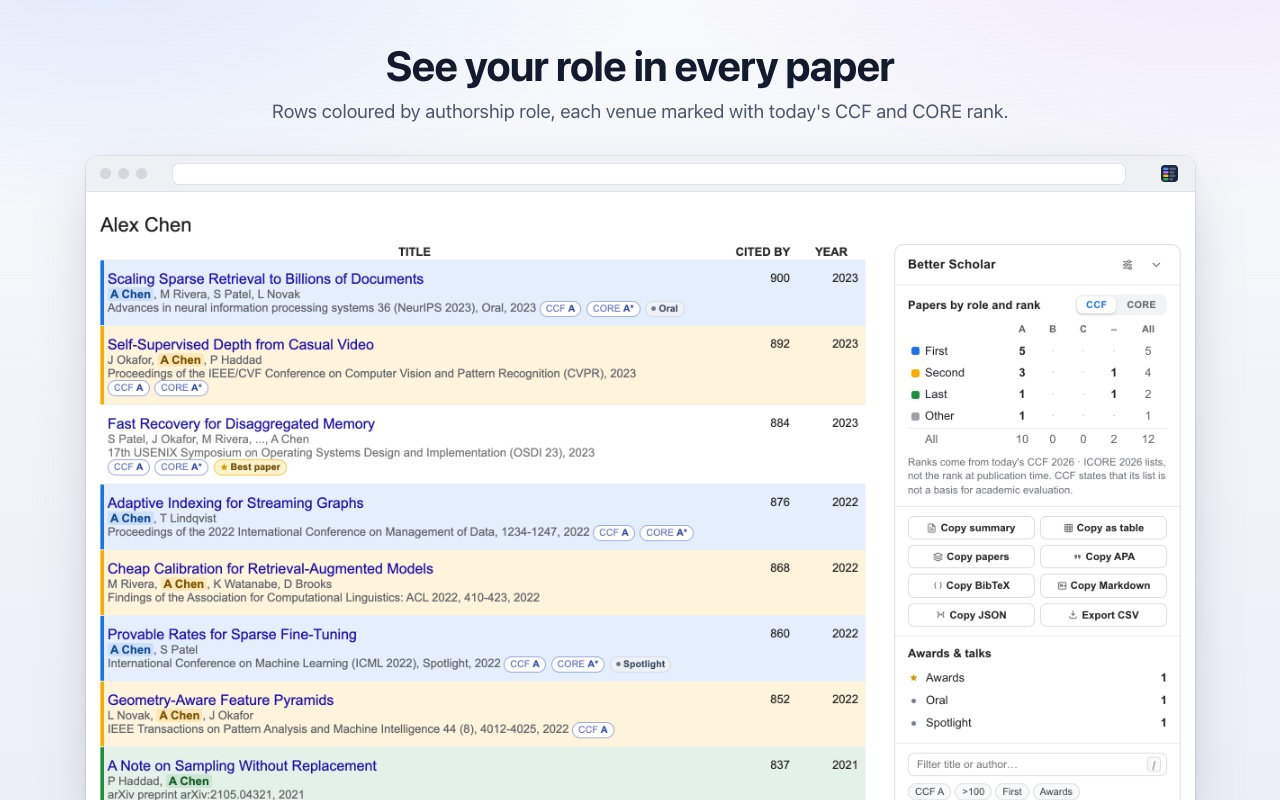
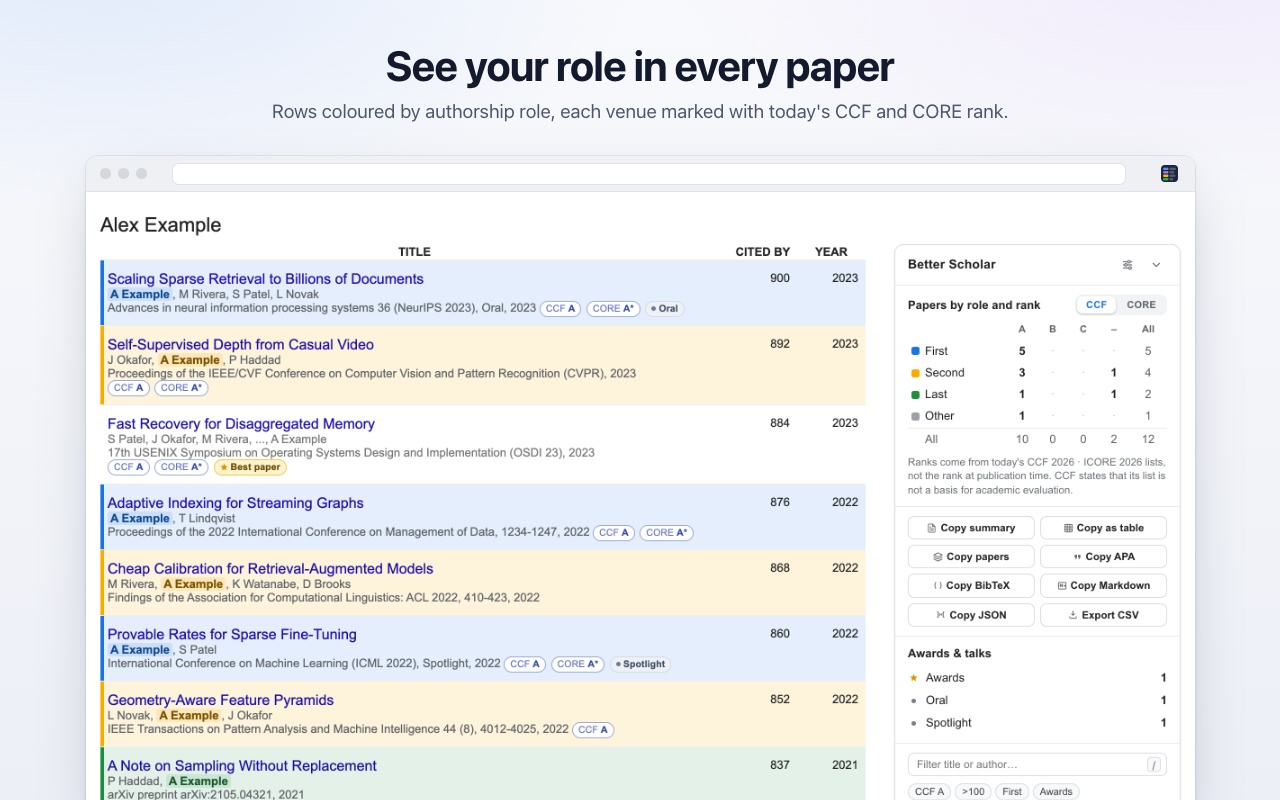
The showcase profile is "Alex Example": a fictional name that is obviously fictional (store images made again)
Claude-Session: https://claude.ai/code/session_01GieBXSv3YotUEJWd7CJKD2

diff --git a/store/chrome/images/README.md b/store/chrome/images/README.md
@@ -2,7 +2,7 @@
 
 Made by `npm run store:images` (scripts/store-images.mjs), which rewrites every file here, this one included: edit the
 words in the script, not here. The screenshots are of the real extension running in Chromium on the end-to-end test's stand-in
-Scholar page, with the fictional showcase profile "Alex Chen" (`test/fixtures/profiles/showcase.json`); no real person's data,
+Scholar page, with the fictional showcase profile "Alex Example" (`test/fixtures/profiles/showcase.json`); no real person's data,
 no Google or Scholar logo. Screenshots and promo tiles are JPEG (quality 95, no alpha).
 
 ## screenshot-1.jpg (1280×800)
